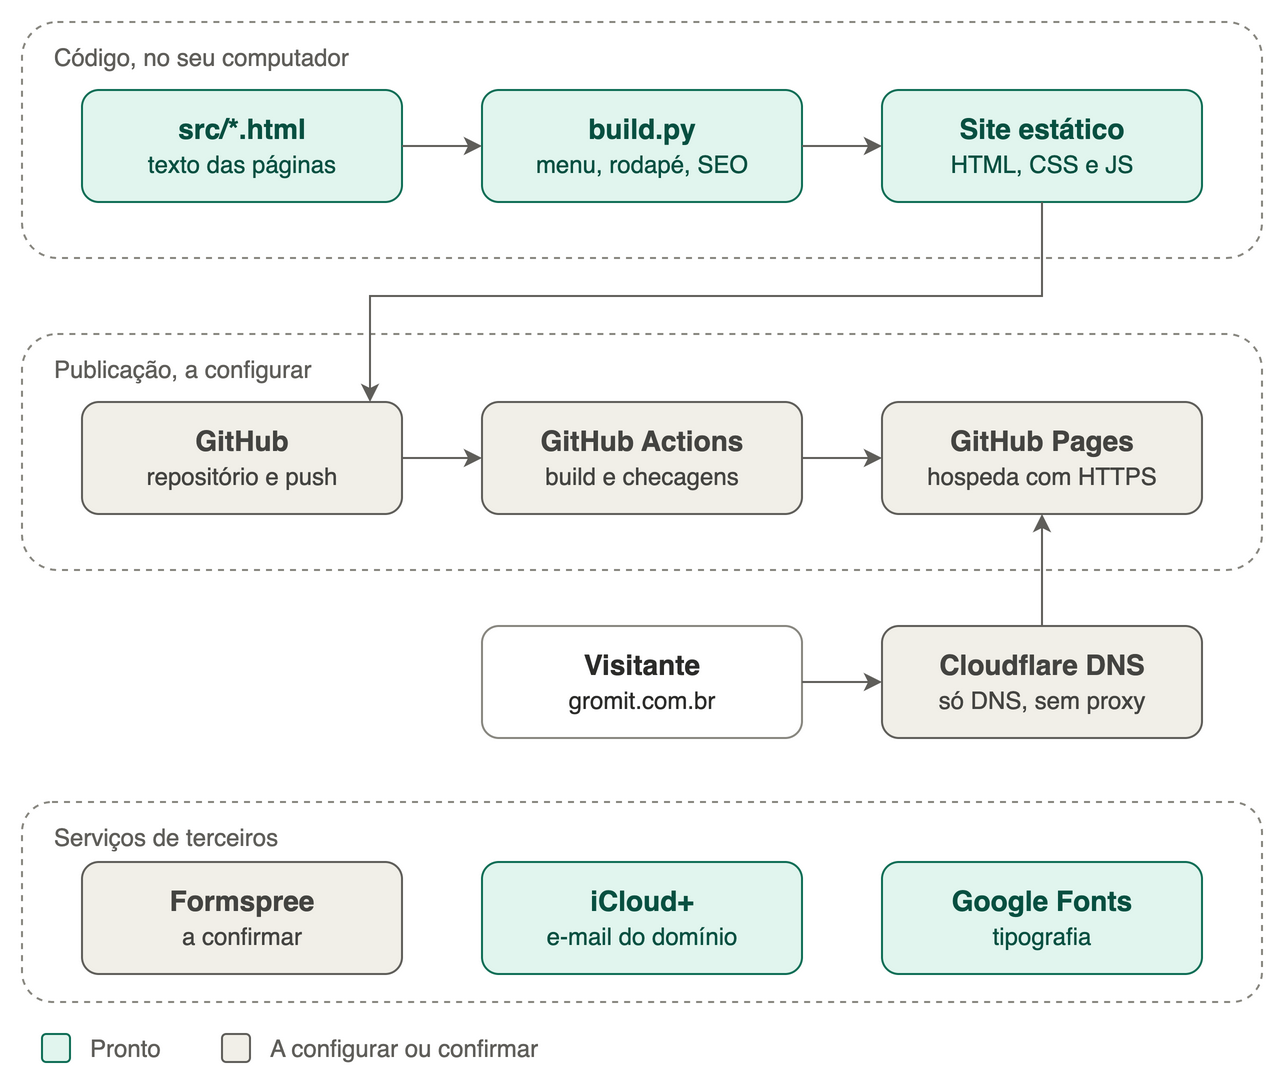
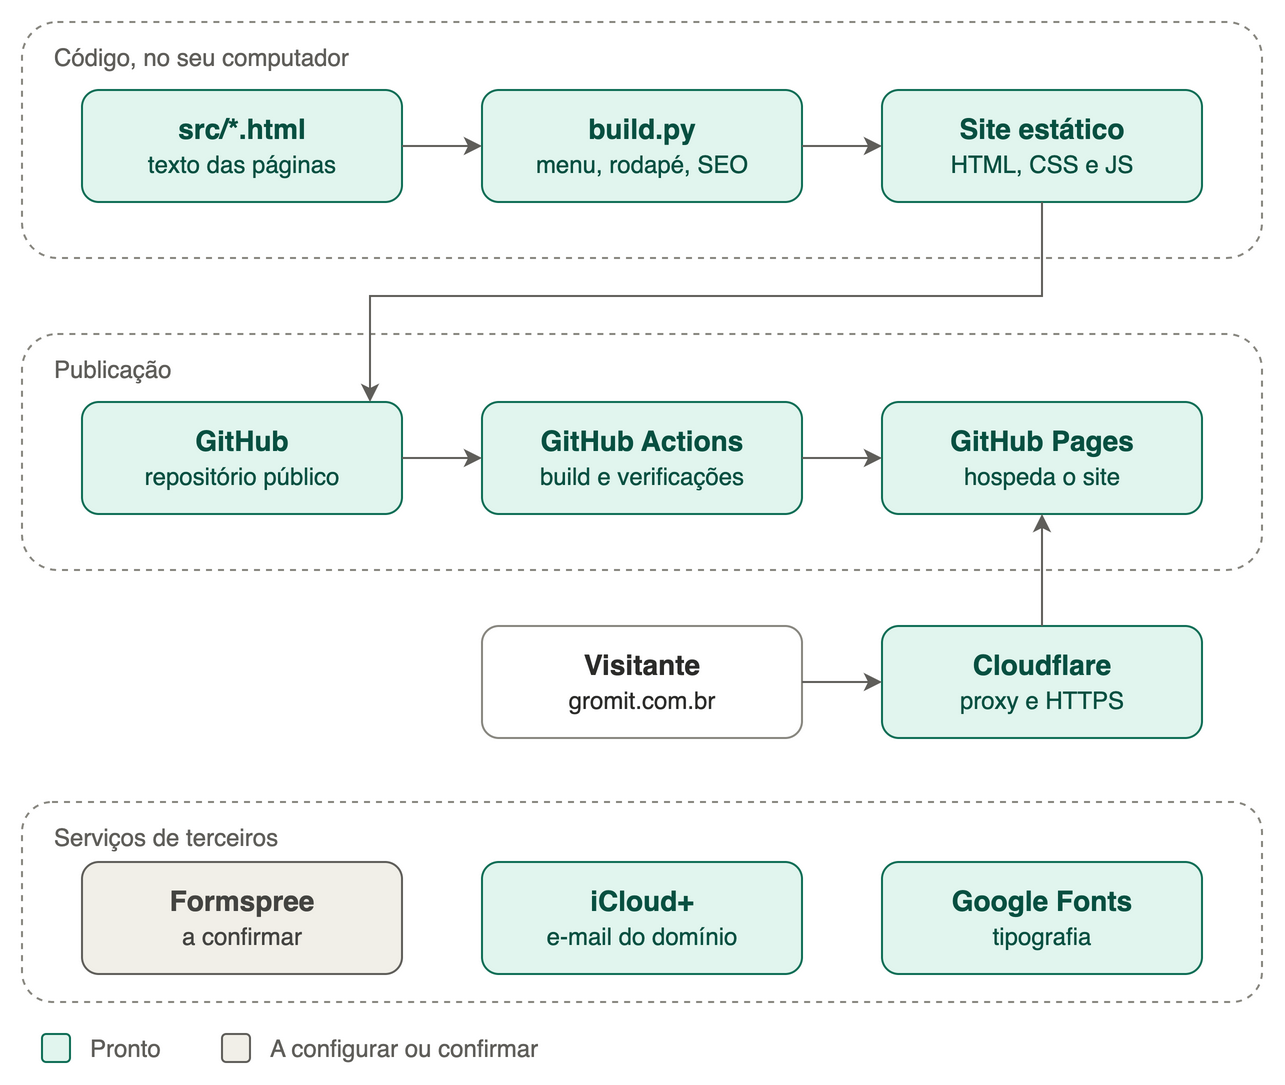
feat(infra): HTTPS do domínio pelo Cloudflare (proxy ligado), Terraform e documentação alinhados

diff --git a/README.md b/README.md
@@ -14,7 +14,7 @@ Os diagramas são arquivos [draw.io](https://www.drawio.com) editáveis, em [`do
 ![Visão geral](docs/gromit-site-arquitetura.png)
 
 ### Infraestrutura e entrega
-Domínio no Registro.br, DNS no Cloudflare (só DNS, sem proxy), hospedagem no GitHub Pages, e-mail no iCloud+.
+Domínio no Registro.br, DNS e HTTPS no Cloudflare (proxy ligado), hospedagem no GitHub Pages, e-mail no iCloud+.
 Fonte: [`gromit-site-infra.drawio`](docs/gromit-site-infra.drawio)
 
 ![Infraestrutura](docs/gromit-site-infra.png)
@@ -112,7 +112,15 @@ pessoais (o CV atual já foi gerado sem telefone e e-mail).
 1. Tornar o repositório público.
 2. Settings > Pages > Source: **GitHub Actions**.
 3. Settings > Secrets and variables > Actions > Variables: criar `PAGES_ENABLED` = `true`.
-4. Aplicar o DNS (abaixo) e, em Settings > Pages, confirmar o domínio `gromit.com.br` e ativar **Enforce HTTPS**.
+4. Aplicar o DNS (abaixo) e, em Settings > Pages, definir o domínio `gromit.com.br`. O HTTPS é do Cloudflare (seção abaixo).
+
+## HTTPS
+
+O HTTPS de `gromit.com.br` é terminado pelo **Cloudflare**, com os registros do site em modo proxy:
+certificado universal gerenciado e renovado automaticamente, modo de criptografia **Full** e **Always Use HTTPS** ligado
+(HTTP redireciona para HTTPS e o `www` redireciona para o domínio sem `www`). O GitHub Pages não aceita certificado próprio,
+e o certificado que ele emite para o domínio não é necessário nesse arranjo, então o "Enforce HTTPS" do Pages fica desligado.
+O `budgetbunny` não passa pelo proxy: o HTTPS dele é da Vercel.
 
 ## Infra (DNS)
 

diff --git a/infra/README.md b/infra/README.md
@@ -1,7 +1,7 @@
 # infra: DNS do site no Cloudflare
 
 Registros de `gromit.com.br` gerenciados por Terraform: o site no GitHub Pages (4 A, 4 AAAA e o CNAME `www`) e o
-`budgetbunny` (CNAME para a Vercel). Todos **sem proxy** (DNS only). Os registros de e-mail do iCloud+ (MX, SPF, DKIM,
+`budgetbunny` (CNAME para a Vercel). Os do site ficam **com proxy** do Cloudflare, que termina o HTTPS (modo Full); o do `budgetbunny` fica **sem proxy**, porque a Vercel cuida do HTTPS dele. Os registros de e-mail do iCloud+ (MX, SPF, DKIM,
 DMARC) e as verificações TXT **não** são gerenciados aqui.
 
 ## Uso normal
